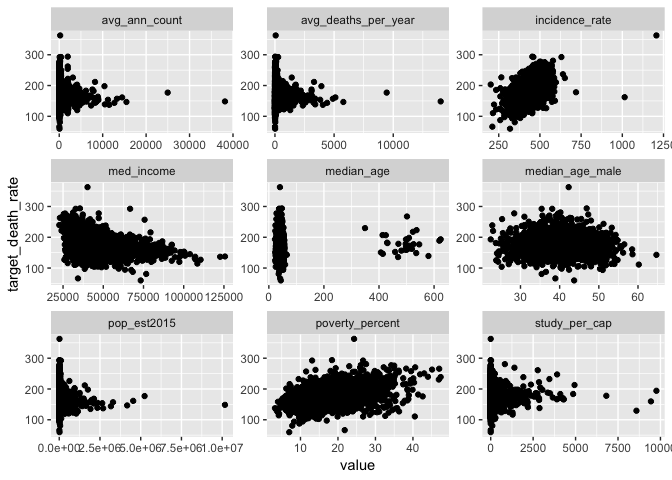
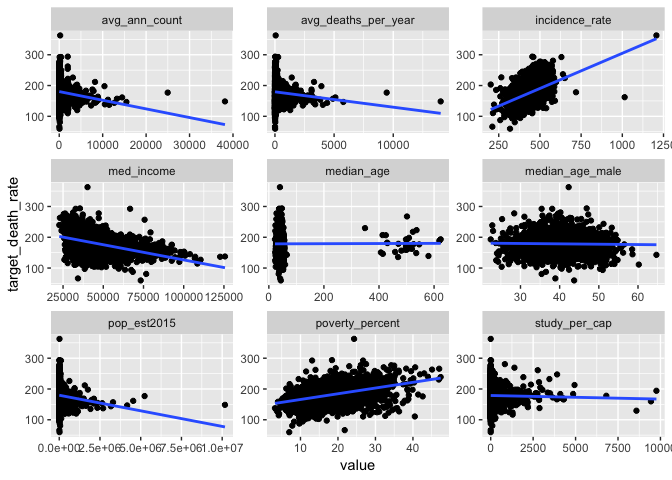
fill ing missing values, calculate correlation

diff --git a/final_project_kz2334.md b/final_project_kz2334.md
@@ -7,63 +7,45 @@ Kangkang Zhang
 library(tidyverse)
 ```
 
-    ## ── Attaching packages ────────────────────────────────────────────────────────────── tidyverse 1.2.1 ──
-
-    ## ✔ ggplot2 3.0.0     ✔ purrr   0.2.5
-    ## ✔ tibble  1.4.2     ✔ dplyr   0.7.8
-    ## ✔ tidyr   0.8.1     ✔ stringr 1.3.1
-    ## ✔ readr   1.1.1     ✔ forcats 0.3.0
-
-    ## ── Conflicts ───────────────────────────────────────────────────────────────── tidyverse_conflicts() ──
-    ## ✖ dplyr::filter() masks stats::filter()
-    ## ✖ dplyr::lag()    masks stats::lag()
+Import data and check missing values.
 
 ``` r
-cancer_data = read_csv("./data/Cancer_Registry.csv")
-```
+cancer_data_raw = read_csv("./data/Cancer_Registry.csv")
 
-    ## Parsed with column specification:
-    ## cols(
-    ##   .default = col_double(),
-    ##   avgDeathsPerYear = col_integer(),
-    ##   medIncome = col_integer(),
-    ##   popEst2015 = col_integer(),
-    ##   binnedInc = col_character(),
-    ##   Geography = col_character()
-    ## )
-
-    ## See spec(...) for full column specifications.
-
-``` r
 #check missing data
-cancer_data %>% 
+cancer_data_raw %>%
+    janitor::clean_names() %>% 
   summarise_all(funs(sum(is.na(.)))) %>% 
-  gather(term, na_num, avgAnnCount:BirthRate) %>% 
+  gather(term, na_num, avg_ann_count:birth_rate) %>% 
   filter(na_num > 0) %>% 
   mutate(percent = na_num/sum(na_num))
 ```
 
     ## # A tibble: 3 x 3
-    ##   term                    na_num percent
-    ##   <chr>                    <int>   <dbl>
-    ## 1 PctSomeCol18_24           2285  0.750 
-    ## 2 PctEmployed16_Over         152  0.0499
-    ## 3 PctPrivateCoverageAlone    609  0.200
+    ##   term                       na_num percent
+    ##   <chr>                       <int>   <dbl>
+    ## 1 pct_some_col18_24            2285  0.750 
+    ## 2 pct_employed16_over           152  0.0499
+    ## 3 pct_private_coverage_alone    609  0.200
+
+Exclude variable PctSomeCol18\_24 since its missing rate is 75%. Fill in missing values in pct\_employed16\_over and pct\_private\_coverage\_alone using mean values of all none-NA obs.
 
 ``` r
-cancer_data = cancer_data %>% 
-  janitor::clean_names() %>% 
-  select(target_death_rate, everything())
+cancer_data = cancer_data_raw %>% 
+  janitor::clean_names() %>%
+  select(target_death_rate, everything(), - pct_some_col18_24) %>%
+  mutate(pct_employed16_over = ifelse(is.na(pct_employed16_over), 
+                                      mean(pct_employed16_over, na.rm = TRUE), pct_employed16_over),
+         pct_private_coverage_alone = ifelse(is.na(pct_private_coverage_alone), 
+                                      mean(pct_private_coverage_alone, na.rm = TRUE), pct_private_coverage_alone))
 ```
 
 extract names of numeric variable
 
 ``` r
-vars = names(cancer_data)[-9] %>% 
-          .[-12]
-
-
-#keep(is.numeric) 
+vars = cancer_data %>% 
+  keep(is.numeric) %>% 
+  names()
 ```
 
 summary statistics for each numeric variable
@@ -75,33 +57,18 @@ cancer_data %>%
   broom::tidy() %>%
   select(- Var1) %>% 
   separate(n, c("stat", "value"), sep = ":") %>% 
-  spread(key = Var2, value = value)
+  spread(key = Var2, value = value) %>% 
+  knitr::kable()
 ```
 
-    ## # A tibble: 8 x 33
-    ##   stat  `  birth_rate` `  med_income` `  median_age` `  pct_asian`
-    ##   <chr> <chr>          <chr>          <chr>          <chr>        
-    ## 1 1st … " 4.521  "     " 38882  "     " 37.70  "     " 0.2542  "  
-    ## 2 3rd … " 6.494  "     " 52492  "     " 44.00  "     " 1.2210  "  
-    ## 3 "Max… "21.326  "     "125635  "     "624.00  "     "42.6194  "  
-    ## 4 "Mea… " 5.640  "     " 47063  "     " 45.27  "     " 1.2540  "  
-    ## 5 "Med… " 5.381  "     " 45207  "     " 41.00  "     " 0.5498  "  
-    ## 6 "Min… " 0.000  "     " 22640  "     " 22.30  "     " 0.0000  "  
-    ## 7 "NA'… <NA>           <NA>           <NA>           <NA>         
-    ## 8 <NA>  <NA>           <NA>           <NA>           <NA>         
-    ## # ... with 28 more variables: ` pct_black` <chr>, ` pct_white` <chr>, `
-    ## #   pct_hs18_24` <chr>, ` pop_est2015` <chr>, avg_ann_count <chr>,
-    ## #   avg_deaths_per_year <chr>, avg_household_size <chr>,
-    ## #   incidence_rate <chr>, median_age_female <chr>, median_age_male <chr>,
-    ## #   pct_bach_deg18_24 <chr>, pct_bach_deg25_over <chr>,
-    ## #   pct_emp_priv_coverage <chr>, pct_employed16_over <chr>,
-    ## #   pct_hs25_over <chr>, pct_married_households <chr>,
-    ## #   pct_no_hs18_24 <chr>, pct_other_race <chr>,
-    ## #   pct_private_coverage <chr>, pct_private_coverage_alone <chr>,
-    ## #   pct_public_coverage <chr>, pct_public_coverage_alone <chr>,
-    ## #   pct_some_col18_24 <chr>, pct_unemployed16_over <chr>,
-    ## #   percent_married <chr>, poverty_percent <chr>, study_per_cap <chr>,
-    ## #   target_death_rate <chr>
+| stat    | birth\_rate | med\_income | median\_age | pct\_asian | pct\_black | pct\_white | pct\_hs18\_24 | pop\_est2015 | avg\_ann\_count | avg\_deaths\_per\_year | avg\_household\_size | incidence\_rate | median\_age\_female | median\_age\_male | pct\_bach\_deg18\_24 | pct\_bach\_deg25\_over | pct\_emp\_priv\_coverage | pct\_employed16\_over | pct\_hs25\_over | pct\_married\_households | pct\_no\_hs18\_24 | pct\_other\_race | pct\_private\_coverage | pct\_private\_coverage\_alone | pct\_public\_coverage | pct\_public\_coverage\_alone | pct\_unemployed16\_over | percent\_married | poverty\_percent | study\_per\_cap | target\_death\_rate |
+|:--------|:-----------:|:-----------:|:-----------:|:----------:|:----------:|:----------:|:-------------:|:------------:|:----------------|:-----------------------|:---------------------|:----------------|:--------------------|:------------------|:---------------------|:-----------------------|:-------------------------|:----------------------|:----------------|:-------------------------|:------------------|:-----------------|:-----------------------|:------------------------------|:----------------------|:-----------------------------|:------------------------|:-----------------|:-----------------|:----------------|:--------------------|
+| 1st Qu. |    4.521    |    38882    |    37.70    |   0.2542   |   0.6207   |    77.30   |      29.2     |     11684    | 76.0            | 28                     | 2.3700               | 420.3           | 39.10               | 36.35             | 3.100                | 9.40                   | 34.5                     | 48.90                 | 30.40           | 47.76                    | 12.80             | 0.2952           | 57.20                  | 43.10                         | 30.90                 | 14.85                        | 5.500                   | 47.75            | 12.15            | 0.00            | 161.2               |
+| 3rd Qu. |    6.494    |    52492    |    44.00    |   1.2210   |   10.5097  |    95.45   |      40.7     |     68671    | 518.0           | 149                    | 2.6300               | 480.9           | 45.30               | 42.50             | 8.200                | 16.10                  | 47.7                     | 60.00                 | 39.65           | 55.40                    | 22.70             | 2.1780           | 72.10                  | 53.80                         | 41.55                 | 23.10                        | 9.700                   | 56.40            | 20.40            | 83.65           | 195.2               |
+| Max.    |    21.326   |    125635   |    624.00   |   42.6194  |   85.9478  |   100.00   |      72.5     |   10170292   | 38150.0         | 14010                  | 3.9700               | 1206.9          | 65.70               | 64.70             | 51.800               | 42.20                  | 70.7                     | 80.10                 | 54.80           | 78.08                    | 64.10             | 41.9303          | 92.30                  | 78.90                         | 65.10                 | 46.60                        | 29.400                  | 72.50            | 47.40            | 9762.31         | 362.8               |
+| Mean    |    5.640    |    47063    |    45.27    |   1.2540   |   9.1080   |    83.65   |      35.0     |    102637    | 606.3           | 186                    | 2.4797               | 448.3           | 42.15               | 39.57             | 6.158                | 13.28                  | 41.2                     | 54.15                 | 34.80           | 51.24                    | 18.22             | 1.9835           | 64.35                  | 48.45                         | 36.25                 | 19.24                        | 7.852                   | 51.77            | 16.88            | 155.40          | 178.7               |
+| Median  |    5.381    |    45207    |    41.00    |   0.5498   |   2.2476   |    90.06   |      34.7     |     26643    | 171.0           | 61                     | 2.5000               | 453.5           | 42.40               | 39.60             | 5.400                | 12.30                  | 41.1                     | 54.15                 | 35.30           | 51.67                    | 17.10             | 0.8262           | 65.10                  | 48.45                         | 36.30                 | 18.80                        | 7.600                   | 52.40            | 15.90            | 0.00            | 178.1               |
+| Min.    |    0.000    |    22640    |    22.30    |   0.0000   |   0.0000   |    10.20   |      0.0      |      827     | 6.0             | 3                      | 0.0221               | 201.3           | 22.30               | 22.40             | 0.000                | 2.50                   | 13.5                     | 17.60                 | 7.50            | 22.99                    | 0.00              | 0.0000           | 22.30                  | 15.70                         | 11.20                 | 2.60                         | 0.400                   | 23.10            | 3.20             | 0.00            | 59.7                |
 
 check normality of each variable
 
@@ -142,9 +109,9 @@ cancer_data %>%
 ![](final_project_kz2334_files/figure-markdown_github/unnamed-chunk-8-1.png)
 
 ``` r
-#variable 28:32
+#variable 28:31
 cancer_data %>%
-  select(vars[28:32]) %>% 
+  select(vars[28:31]) %>% 
   gather() %>%   
   ggplot(aes(value)) +                    
     facet_wrap(~ key, scales = "free") +  
@@ -162,10 +129,52 @@ cancer_data %>%
   gather(key = key, value, vars[2:10]) %>%   
   ggplot(aes(x = value, y = target_death_rate)) +                    
     facet_wrap(~ key, scales = "free") +  
-    geom_point(na.rm = TRUE) 
+    geom_point(na.rm = TRUE) +
+    geom_smooth(se = FALSE, method = "lm") 
 ```
 
 ![](final_project_kz2334_files/figure-markdown_github/unnamed-chunk-10-1.png)
+
+variable median\_age has some abnormal value, 30 obs are large than 150. Exclude those obs?
+
+``` r
+cancer_data %>%
+  select(median_age) %>% 
+  filter(median_age > 150)  #result is the same as larger than 100
+```
+
+    ## # A tibble: 30 x 1
+    ##    median_age
+    ##         <dbl>
+    ##  1       458.
+    ##  2       469.
+    ##  3       546 
+    ##  4       624 
+    ##  5       509.
+    ##  6       619.
+    ##  7       498 
+    ##  8       413.
+    ##  9       481.
+    ## 10       425.
+    ## # ... with 20 more rows
+
+``` r
+cancer_data_df = cancer_data %>%
+  filter(median_age <= 150)
+```
+
+check the linear relationship between median\_age and responce.
+
+``` r
+cancer_data %>%
+  select(target_death_rate, median_age) %>%
+  filter(median_age <= 150) %>% 
+  ggplot(aes(x = median_age, y = target_death_rate)) +                    
+  geom_point(na.rm = TRUE) +
+  geom_smooth(se = FALSE, method = "lm") 
+```
+
+![](final_project_kz2334_files/figure-markdown_github/unnamed-chunk-12-1.png)
 
 ``` r
 #variable 11:19
@@ -174,10 +183,11 @@ cancer_data %>%
   gather(key = key, value, vars[11:19]) %>%   
   ggplot(aes(x = value, y = target_death_rate)) +                    
     facet_wrap(~ key, scales = "free") +  
-    geom_point(na.rm = TRUE) 
+    geom_point(na.rm = TRUE) +
+  geom_smooth(se = FALSE, method = "lm") 
 ```
 
-![](final_project_kz2334_files/figure-markdown_github/unnamed-chunk-11-1.png)
+![](final_project_kz2334_files/figure-markdown_github/unnamed-chunk-13-1.png)
 
 ``` r
 #variable 20:28
@@ -186,19 +196,110 @@ cancer_data %>%
   gather(key = key, value, vars[20:28]) %>%   
   ggplot(aes(x = value, y = target_death_rate)) +                    
     facet_wrap(~ key, scales = "free") +  
-    geom_point(na.rm = TRUE) 
+    geom_point(na.rm = TRUE) +
+  geom_smooth(se = FALSE, method = "lm") 
 ```
 
-![](final_project_kz2334_files/figure-markdown_github/unnamed-chunk-12-1.png)
+![](final_project_kz2334_files/figure-markdown_github/unnamed-chunk-14-1.png)
 
 ``` r
-#variable 29:32
+#variable 29:31
 cancer_data %>%
-  select(target_death_rate, vars[29:32]) %>% 
-  gather(key = key, value, vars[29:32]) %>%   
+  select(target_death_rate, vars[29:31]) %>% 
+  gather(key = key, value, vars[29:31]) %>%   
   ggplot(aes(x = value, y = target_death_rate)) +                    
     facet_wrap(~ key, scales = "free") +  
-    geom_point(na.rm = TRUE) 
+    geom_point(na.rm = TRUE) +
+  geom_smooth(se = FALSE, method = "lm") 
 ```
 
-![](final_project_kz2334_files/figure-markdown_github/unnamed-chunk-13-1.png)
+![](final_project_kz2334_files/figure-markdown_github/unnamed-chunk-15-1.png)
+
+check correlation
+
+``` r
+cancer_data_df %>%
+  keep(is.numeric) %>% 
+  cor() %>% 
+  knitr::kable()
+```
+
+|                               |  target\_death\_rate|  avg\_ann\_count|  avg\_deaths\_per\_year|  incidence\_rate|  med\_income|  pop\_est2015|  poverty\_percent|  study\_per\_cap|  median\_age|  median\_age\_male|  median\_age\_female|  avg\_household\_size|  percent\_married|  pct\_no\_hs18\_24|  pct\_hs18\_24|  pct\_bach\_deg18\_24|  pct\_hs25\_over|  pct\_bach\_deg25\_over|  pct\_employed16\_over|  pct\_unemployed16\_over|  pct\_private\_coverage|  pct\_private\_coverage\_alone|  pct\_emp\_priv\_coverage|  pct\_public\_coverage|  pct\_public\_coverage\_alone|  pct\_white|  pct\_black|  pct\_asian|  pct\_other\_race|  pct\_married\_households|  birth\_rate|
+|-------------------------------|--------------------:|----------------:|-----------------------:|----------------:|------------:|-------------:|-----------------:|----------------:|------------:|------------------:|--------------------:|---------------------:|-----------------:|------------------:|--------------:|---------------------:|----------------:|-----------------------:|----------------------:|------------------------:|-----------------------:|------------------------------:|-------------------------:|----------------------:|-----------------------------:|-----------:|-----------:|-----------:|-----------------:|-------------------------:|------------:|
+| target\_death\_rate           |            1.0000000|       -0.1428471|              -0.0904259|        0.4483646|   -0.4278229|    -0.1194179|         0.4293098|       -0.0224817|   -0.0042881|         -0.0214153|            0.0127308|            -0.0381313|        -0.2668491|          0.0854441|      0.2646202|            -0.2885330|        0.4051631|              -0.4852033|             -0.3979608|                0.3796381|              -0.3847923|                     -0.3265040|                -0.2647278|              0.4047795|                     0.4488874|  -0.1784470|   0.2595739|  -0.1856845|        -0.1883306|                -0.2935767|   -0.0875980|
+| avg\_ann\_count               |           -0.1428471|        1.0000000|               0.9396519|        0.0741730|    0.2692593|     0.9271946|        -0.1354088|        0.0819154|   -0.1224273|         -0.1245714|           -0.1223004|             0.0648052|        -0.1067591|         -0.1437983|     -0.1815838|             0.2845801|       -0.3112935|               0.3203762|              0.1970926|               -0.0073139|               0.1318993|                      0.1664718|                 0.2021700|             -0.1726959|                    -0.0928715|  -0.1370396|   0.0310616|   0.4343009|         0.2090355|                -0.1070307|   -0.0347799|
+| avg\_deaths\_per\_year        |           -0.0904259|        0.9396519|               1.0000000|        0.0630815|    0.2234553|     0.9778577|        -0.0667479|        0.0633044|   -0.1447214|         -0.1478482|           -0.1435090|             0.0858603|        -0.1815902|         -0.1367456|     -0.1510470|             0.2598670|       -0.2961512|               0.2927941|              0.1246656|                0.0711246|               0.0559040|                      0.1121528|                 0.1601204|             -0.1311524|                    -0.0268172|  -0.1876367|   0.0841956|   0.4424203|         0.2148936|                -0.1612828|   -0.0739804|
+| incidence\_rate               |            0.4483646|        0.0741730|               0.0630815|        1.0000000|    0.0002617|     0.0274867|         0.0080385|        0.0782399|   -0.0048413|         -0.0133255|           -0.0078453|            -0.1201090|        -0.1178038|         -0.1726112|      0.0221817|             0.0470496|        0.1205213|              -0.0377097|              0.0049080|                0.0985975|               0.1081687|                      0.1000416|                 0.1527597|              0.0454264|                     0.0392119|  -0.0135905|   0.1147422|  -0.0073996|        -0.2066774|                -0.1510149|   -0.1173617|
+| med\_income                   |           -0.4278229|        0.2692593|               0.2234553|        0.0002617|    1.0000000|     0.2354220|        -0.7882737|        0.0444130|   -0.1174798|         -0.0909595|           -0.1529484|             0.1125356|         0.3535615|         -0.2866140|     -0.1899131|             0.4945317|       -0.4713898|               0.7040814|              0.6760277|               -0.4518041|               0.7236568|                      0.7060248|                 0.7464407|             -0.7543571|                    -0.7191176|   0.1660442|  -0.2702380|   0.4268445|         0.0837018|                 0.4441014|   -0.0108921|
+| pop\_est2015                  |           -0.1194179|        0.9271946|               0.9778577|        0.0274867|    0.2354220|     1.0000000|        -0.0649058|        0.0556532|   -0.1763747|         -0.1757063|           -0.1769924|             0.1090142|        -0.1611504|         -0.1266489|     -0.1514810|             0.2484561|       -0.3115435|               0.2965209|              0.1388201|                0.0519348|               0.0525184|                      0.1210709|                 0.1584697|             -0.1589922|                    -0.0407667|  -0.1898984|   0.0722984|   0.4624937|         0.2405531|                -0.1294030|   -0.0573324|
+| poverty\_percent              |            0.4293098|       -0.1354088|              -0.0667479|        0.0080385|   -0.7882737|    -0.0649058|         1.0000000|       -0.0562174|   -0.1937799|         -0.2152657|           -0.1488482|             0.0735504|        -0.6420552|          0.2849371|      0.0947543|            -0.3879240|        0.1937883|              -0.5307987|             -0.7204311|                0.6544179|              -0.8223484|                     -0.6826308|                -0.6820074|              0.6511874|                     0.7985095|  -0.5090370|   0.5119327|  -0.1574088|         0.0469002|                -0.6035941|   -0.0123440|
+| study\_per\_cap               |           -0.0224817|        0.0819154|               0.0633044|        0.0782399|    0.0444130|     0.0556532|        -0.0562174|        1.0000000|   -0.0316825|         -0.0364882|           -0.0304715|            -0.0038775|        -0.0383259|         -0.0909623|     -0.0567758|             0.0638771|       -0.0852292|               0.1089161|              0.0880712|               -0.0314209|               0.0933588|                      0.0689466|                 0.1008703|             -0.0518958|                    -0.0560949|   0.0231158|  -0.0196490|   0.0625071|        -0.0156604|                -0.0522075|    0.0107060|
+| median\_age                   |           -0.0042881|       -0.1224273|              -0.1447214|       -0.0048413|   -0.1174798|    -0.1763747|        -0.1937799|       -0.0316825|    1.0000000|          0.9845789|            0.9770902|            -0.3567106|         0.4301158|          0.1099806|      0.2430530|            -0.0526128|        0.3309711|              -0.1497075|             -0.1875909|               -0.1280979|               0.0691826|                     -0.1625807|                -0.2299898|              0.4268144|                     0.0210051|   0.3740950|  -0.2047061|  -0.2486870|        -0.2791386|                 0.1990542|   -0.1005415|
+| median\_age\_male             |           -0.0214153|       -0.1245714|              -0.1478482|       -0.0133255|   -0.0909595|    -0.1757063|        -0.2152657|       -0.0364882|    0.9845789|          1.0000000|            0.9336248|            -0.3416873|         0.4515355|          0.1014973|      0.2391589|            -0.0360659|        0.3177160|              -0.1304075|             -0.1590992|               -0.1421014|               0.0823199|                     -0.1456432|                -0.2096311|              0.3977686|                     0.0020584|   0.3955660|  -0.2416465|  -0.2374834|        -0.2670161|                 0.2238197|   -0.1033537|
+| median\_age\_female           |            0.0127308|       -0.1223004|              -0.1435090|       -0.0078453|   -0.1529484|    -0.1769924|        -0.1488482|       -0.0304715|    0.9770902|          0.9336248|            1.0000000|            -0.3656469|         0.3754517|          0.1380165|      0.2414925|            -0.0725766|        0.3441648|              -0.1800306|             -0.2418975|               -0.1097184|               0.0458422|                     -0.1840597|                -0.2540930|              0.4551195|                     0.0481823|   0.3366096|  -0.1556505|  -0.2580928|        -0.2743087|                 0.1618831|   -0.0977902|
+| avg\_household\_size          |           -0.0381313|        0.0648052|               0.0858603|       -0.1201090|    0.1125356|     0.1090142|         0.0735504|       -0.0038775|   -0.3567106|         -0.3416873|           -0.3656469|             1.0000000|        -0.0982997|          0.0635381|      0.0277456|            -0.0605837|       -0.1375718|               0.0133639|              0.0109458|                0.1281087|              -0.1423900|                     -0.0053574|                 0.0128411|             -0.1343761|                     0.0599549|  -0.1845517|   0.0287647|   0.1304428|         0.2286223|                 0.0929724|    0.0753181|
+| percent\_married              |           -0.2668491|       -0.1067591|              -0.1815902|       -0.1178038|    0.3535615|    -0.1611504|        -0.6420552|       -0.0383259|    0.4301158|          0.4515355|            0.3754517|            -0.0982997|         1.0000000|         -0.0088948|      0.1334370|             0.0525171|        0.1036571|               0.1021236|              0.3937622|               -0.5493113|               0.4470522|                      0.2989596|                 0.2295170|             -0.2455126|                    -0.4581830|   0.6770848|  -0.6236122|  -0.1496968|        -0.1046174|                 0.8700956|    0.1427839|
+| pct\_no\_hs18\_24             |            0.0854441|       -0.1437983|              -0.1367456|       -0.1726112|   -0.2866140|    -0.1266489|         0.2849371|       -0.0909623|    0.1099806|          0.1014973|            0.1380165|             0.0635381|        -0.0088948|          1.0000000|      0.0862182|            -0.3818690|        0.2169053|              -0.3952988|             -0.3369978|                0.1769142|              -0.4528959|                     -0.4094785|                -0.4281866|              0.3178534|                     0.3254111|  -0.1542880|   0.1160916|  -0.2179438|         0.1265264|                 0.0097182|    0.1241684|
+| pct\_hs18\_24                 |            0.2646202|       -0.1815838|              -0.1510470|        0.0221817|   -0.1899131|    -0.1514810|         0.0947543|       -0.0567758|    0.2430530|          0.2391589|            0.2414925|             0.0277456|         0.1334370|          0.0862182|      1.0000000|            -0.3916585|        0.4395994|              -0.4050877|             -0.2627216|                0.1308508|              -0.2545237|                     -0.2596617|                -0.2442400|              0.2773275|                     0.2343960|   0.0438771|  -0.0236075|  -0.2000010|        -0.0596537|                 0.1210687|    0.0609043|
+| pct\_bach\_deg18\_24          |           -0.2885330|        0.2845801|               0.2598670|        0.0470496|    0.4945317|     0.2484561|        -0.3879240|        0.0638771|   -0.0526128|         -0.0360659|           -0.0725766|            -0.0605837|         0.0525171|         -0.3818690|     -0.3916585|             1.0000000|       -0.3877135|               0.6013271|              0.4599200|               -0.3091060|               0.4896261|                      0.4531320|                 0.4530694|             -0.4245900|                    -0.4224669|   0.0669466|  -0.0931233|   0.3467202|         0.0070722|                -0.0014711|   -0.1246459|
+| pct\_hs25\_over               |            0.4051631|       -0.3112935|              -0.2961512|        0.1205213|   -0.4713898|    -0.3115435|         0.1937883|       -0.0852292|    0.3309711|          0.3177160|            0.3441648|            -0.1375718|         0.1036571|          0.2169053|      0.4395994|            -0.3877135|        1.0000000|              -0.7410887|             -0.3368753|                0.0826801|              -0.2230558|                     -0.2737974|                -0.2234911|              0.4276524|                     0.2978089|   0.1871397|  -0.0233541|  -0.4362800|        -0.2839158|                 0.0642433|    0.0179238|
+| pct\_bach\_deg25\_over        |           -0.4852033|        0.3203762|               0.2927941|       -0.0377097|    0.7040814|     0.2965209|        -0.5307987|        0.1089161|   -0.1497075|         -0.1304075|           -0.1800306|             0.0133639|         0.1021236|         -0.3952988|     -0.4050877|             0.6013271|       -0.7410887|               1.0000000|              0.5970684|               -0.3729126|               0.6037994|                      0.5800655|                 0.5384908|             -0.6356605|                    -0.6056698|   0.0483792|  -0.1467515|   0.4371646|         0.0379230|                 0.0954175|   -0.0877675|
+| pct\_employed16\_over         |           -0.3979608|        0.1970926|               0.1246656|        0.0049080|    0.6760277|     0.1388201|        -0.7204311|        0.0880712|   -0.1875909|         -0.1590992|           -0.2418975|             0.0109458|         0.3937622|         -0.3369978|     -0.2627216|             0.4599200|       -0.3368753|               0.5970684|              1.0000000|               -0.6334425|               0.6824652|                      0.6731984|                 0.6845182|             -0.7507860|                    -0.6945782|   0.2644338|  -0.3298558|   0.2311728|         0.0482151|                 0.3034547|    0.0801604|
+| pct\_unemployed16\_over       |            0.3796381|       -0.0073139|               0.0711246|        0.0985975|   -0.4518041|     0.0519348|         0.6544179|       -0.0314209|   -0.1280979|         -0.1421014|           -0.1097184|             0.1281087|        -0.5493113|          0.1769142|      0.1308508|            -0.3091060|        0.0826801|              -0.3729126|             -0.6334425|                1.0000000|              -0.6313751|                     -0.5218064|                -0.4703729|              0.5306975|                     0.6547554|  -0.4978811|   0.4707960|  -0.0215750|         0.0276795|                -0.4668484|   -0.0683087|
+| pct\_private\_coverage        |           -0.3847923|        0.1318993|               0.0559040|        0.1081687|    0.7236568|     0.0525184|        -0.8223484|        0.0933588|    0.0691826|          0.0823199|            0.0458422|            -0.1423900|         0.4470522|         -0.4528959|     -0.2545237|             0.4896261|       -0.2230558|               0.6037994|              0.6824652|               -0.6313751|               1.0000000|                      0.8362785|                 0.8263302|             -0.7207873|                    -0.8859777|   0.4267593|  -0.3460552|   0.1905067|        -0.1766379|                 0.4321685|   -0.0426714|
+| pct\_private\_coverage\_alone |           -0.3265040|        0.1664718|               0.1121528|        0.1000416|    0.7060248|     0.1210709|        -0.6826308|        0.0689466|   -0.1625807|         -0.1456432|           -0.1840597|            -0.0053574|         0.2989596|         -0.4094785|     -0.2596617|             0.4531320|       -0.2737974|               0.5800655|              0.6731984|               -0.5218064|               0.8362785|                      1.0000000|                 0.8318278|             -0.7694708|                    -0.7700650|   0.2822474|  -0.2497205|   0.2533213|        -0.0823938|                 0.3510465|   -0.0450641|
+| pct\_emp\_priv\_coverage      |           -0.2647278|        0.2021700|               0.1601204|        0.1527597|    0.7464407|     0.1584697|        -0.6820074|        0.1008703|   -0.2299898|         -0.2096311|           -0.2540930|             0.0128411|         0.2295170|         -0.4281866|     -0.2442400|             0.4530694|       -0.2234911|               0.5384908|              0.6845182|               -0.4703729|               0.8263302|                      0.8318278|                 1.0000000|             -0.7784563|                    -0.7278773|   0.2678821|  -0.2378251|   0.2837655|        -0.0644712|                 0.3192510|   -0.0957688|
+| pct\_public\_coverage         |            0.4047795|       -0.1726959|              -0.1311524|        0.0454264|   -0.7543571|    -0.1589922|         0.6511874|       -0.0518958|    0.4268144|          0.3977686|            0.4551195|            -0.1343761|        -0.2455126|          0.3178534|      0.2773275|            -0.4245900|        0.4276524|              -0.6356605|             -0.7507860|                0.5306975|              -0.7207873|                     -0.7694708|                -0.7784563|              1.0000000|                     0.8663982|  -0.1352177|   0.1973906|  -0.3051295|        -0.0781005|                -0.3604321|   -0.0274950|
+| pct\_public\_coverage\_alone  |            0.4488874|       -0.0928715|              -0.0268172|        0.0392119|   -0.7191176|    -0.0407667|         0.7985095|       -0.0560949|    0.0210051|          0.0020584|            0.0481823|             0.0599549|        -0.4581830|          0.3254111|      0.2343960|            -0.4224669|        0.2978089|              -0.6056698|             -0.6945782|                0.6547554|              -0.8859777|                     -0.7700650|                -0.7278773|              0.8663982|                     1.0000000|  -0.3602083|   0.3315643|  -0.1812753|         0.0839760|                -0.4722474|   -0.0016780|
+| pct\_white                    |           -0.1784470|       -0.1370396|              -0.1876367|       -0.0135905|    0.1660442|    -0.1898984|        -0.5090370|        0.0231158|    0.3740950|          0.3955660|            0.3366096|            -0.1845517|         0.6770848|         -0.1542880|      0.0438771|             0.0669466|        0.1871397|               0.0483792|              0.2644338|               -0.4978811|               0.4267593|                      0.2822474|                 0.2678821|             -0.1352177|                    -0.3602083|   1.0000000|  -0.8305639|  -0.2655124|        -0.2328636|                 0.5969815|   -0.0077319|
+| pct\_black                    |            0.2595739|        0.0310616|               0.0841956|        0.1147422|   -0.2702380|     0.0722984|         0.5119327|       -0.0196490|   -0.2047061|         -0.2416465|           -0.1556505|             0.0287647|        -0.6236122|          0.1160916|     -0.0236075|            -0.0931233|       -0.0233541|              -0.1467515|             -0.3298558|                0.4707960|              -0.3460552|                     -0.2497205|                -0.2378251|              0.1973906|                     0.3315643|  -0.8305639|   1.0000000|   0.0148134|        -0.0246878|                -0.5748356|   -0.0690895|
+| pct\_asian                    |           -0.1856845|        0.4343009|               0.4424203|       -0.0073996|    0.4268445|     0.4624937|        -0.1574088|        0.0625071|   -0.2486870|         -0.2374834|           -0.2580928|             0.1304428|        -0.1496968|         -0.2179438|     -0.2000010|             0.3467202|       -0.4362800|               0.4371646|              0.2311728|               -0.0215750|               0.1905067|                      0.2533213|                 0.2837655|             -0.3051295|                    -0.1812753|  -0.2655124|   0.0148134|   1.0000000|         0.1992957|                -0.0883429|   -0.0611637|
+| pct\_other\_race              |           -0.1883306|        0.2090355|               0.2148936|       -0.2066774|    0.0837018|     0.2405531|         0.0469002|       -0.0156604|   -0.2791386|         -0.2670161|           -0.2743087|             0.2286223|        -0.1046174|          0.1265264|     -0.0596537|             0.0070722|       -0.2839158|               0.0379230|              0.0482151|                0.0276795|              -0.1766379|                     -0.0823938|                -0.0644712|             -0.0781005|                     0.0839760|  -0.2328636|  -0.0246878|   0.1992957|         1.0000000|                -0.0278652|    0.0589411|
+| pct\_married\_households      |           -0.2935767|       -0.1070307|              -0.1612828|       -0.1510149|    0.4441014|    -0.1294030|        -0.6035941|       -0.0522075|    0.1990542|          0.2238197|            0.1618831|             0.0929724|         0.8700956|          0.0097182|      0.1210687|            -0.0014711|        0.0642433|               0.0954175|              0.3034547|               -0.4668484|               0.4321685|                      0.3510465|                 0.3192510|             -0.3604321|                    -0.4722474|   0.5969815|  -0.5748356|  -0.0883429|        -0.0278652|                 1.0000000|    0.1031480|
+| birth\_rate                   |           -0.0875980|       -0.0347799|              -0.0739804|       -0.1173617|   -0.0108921|    -0.0573324|        -0.0123440|        0.0107060|   -0.1005415|         -0.1033537|           -0.0977902|             0.0753181|         0.1427839|          0.1241684|      0.0609043|            -0.1246459|        0.0179238|              -0.0877675|              0.0801604|               -0.0683087|              -0.0426714|                     -0.0450641|                -0.0957688|             -0.0274950|                    -0.0016780|  -0.0077319|  -0.0690895|  -0.0611637|         0.0589411|                 0.1031480|    1.0000000|
+
+``` r
+#Descending order according to correlocation with target variable
+cancer_data_df %>%
+  keep(is.numeric) %>% 
+  cor() %>% 
+  as_tibble() %>% 
+  mutate(term = vars) %>% 
+  select(term, target_death_rate) %>% 
+  arrange(desc(target_death_rate)) %>% 
+  knitr::kable()
+```
+
+| term                          |  target\_death\_rate|
+|:------------------------------|--------------------:|
+| target\_death\_rate           |            1.0000000|
+| pct\_public\_coverage\_alone  |            0.4488874|
+| incidence\_rate               |            0.4483646|
+| poverty\_percent              |            0.4293098|
+| pct\_hs25\_over               |            0.4051631|
+| pct\_public\_coverage         |            0.4047795|
+| pct\_unemployed16\_over       |            0.3796381|
+| pct\_hs18\_24                 |            0.2646202|
+| pct\_black                    |            0.2595739|
+| pct\_no\_hs18\_24             |            0.0854441|
+| median\_age\_female           |            0.0127308|
+| median\_age                   |           -0.0042881|
+| median\_age\_male             |           -0.0214153|
+| study\_per\_cap               |           -0.0224817|
+| avg\_household\_size          |           -0.0381313|
+| birth\_rate                   |           -0.0875980|
+| avg\_deaths\_per\_year        |           -0.0904259|
+| pop\_est2015                  |           -0.1194179|
+| avg\_ann\_count               |           -0.1428471|
+| pct\_white                    |           -0.1784470|
+| pct\_asian                    |           -0.1856845|
+| pct\_other\_race              |           -0.1883306|
+| pct\_emp\_priv\_coverage      |           -0.2647278|
+| percent\_married              |           -0.2668491|
+| pct\_bach\_deg18\_24          |           -0.2885330|
+| pct\_married\_households      |           -0.2935767|
+| pct\_private\_coverage\_alone |           -0.3265040|
+| pct\_private\_coverage        |           -0.3847923|
+| pct\_employed16\_over         |           -0.3979608|
+| med\_income                   |           -0.4278229|
+| pct\_bach\_deg25\_over        |           -0.4852033|
